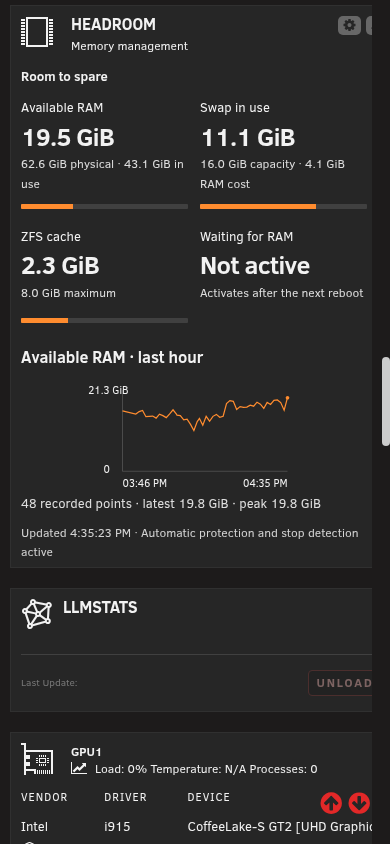
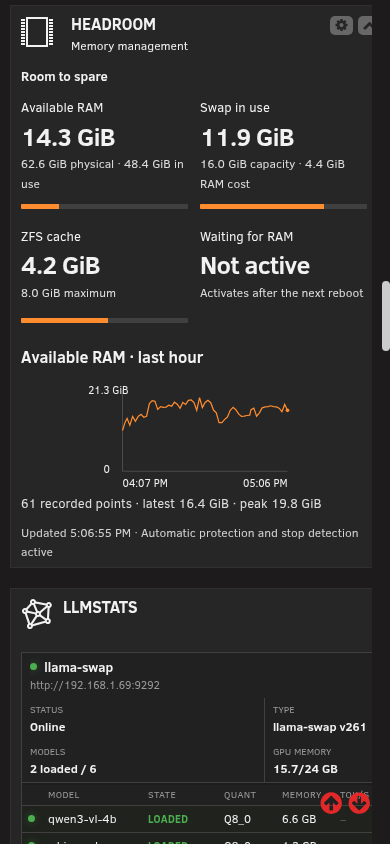
Record precise release verification and final phone view

diff --git a/docs/DESIGN.md b/docs/DESIGN.md
@@ -57,7 +57,7 @@ Below: compressed swap, disk swap (strong ZFS warning + eligible target selector
 ## Migration and rollback
 
 1. Back up original plugin .plg, settings, installed source, hooks, and every changed /boot file beneath `/boot/config/plugins/dockerMan/backup-2026-10-02/headroom-<timestamp>/`. Record original runtime defaults for later uninstall.
-2. Re-read old settings at cutover (Main is changing 8G to 16G). Strictly map old levels; preserve zram algorithm/size/percent/priorities/swappiness. Keep complete original settings in migration metadata. Deliberately replace global oom.group=yes with per-container false. Explain this exception.
+2. Re-read the latest old settings at cutover. Strictly map old levels; preserve zram algorithm/size/percent/priorities/swappiness. Save the complete original settings in the migration backup and record that location in metadata. Deliberately replace global oom.group=yes with per-container false. Explain this exception.
 3. Stage Headroom; import config and adopt existing labelled active device. Apply protections before removing old components. Stop only verified old collector. Remove old marked libvirt hook, old plugin files/registration/cron without running its dangerous remover (it swapoffs live zram and clears all scores). Reapply Headroom in the same locked migration. Keep saved old config in backup, not an active plugin folder.
 4. Install own qemu.d hook (do not edit Unraid's VFIO code), cron watchdog and array events. Start daemon and verify settings, same device/size/label/priority, every score/group, Docker new-start and disposable restart, notifications and UI.
 5. Rollback: in a safe low-pressure window with PSI active, remove Headroom through the native plugin manager (never force a refused removal), restore the migration backup's saved-settings/settings.ini to the original plugin directory, then reinstall `https://raw.githubusercontent.com/johnpwhite/unraid-plg-zram/main/unraid-zram-card.plg`. The old plugin recreates its compressed swap and reapplies the original protection settings. This restores its old whole-app behavior and lack of Docker-event reapplication. Until safe evacuation is possible, leave Headroom installed rather than disabling its watchdog.
@@ -66,7 +66,7 @@ Normal uninstall safely evacuates owned swap only after checks; refusal aborts r
 
 ## Verification
 
-Unit tests: invalid config/size/levels rejected, complete migration mapping including 16G and whole-app exception, limits token rewrite preserving other ExtraParams, OOM global vs cgroup parsing, pressure duration/recovery/cooldown, evacuation boundaries and ZFS rejection. Shellcheck and php -l in CI; release workflow dispatch builds package, regenerates .plg and publishes immutable release assets. Real smoke on Unraid: read-only status, safe live protection, disposable Docker start/restart/recreate, test notification, actual PHP endpoints, native desktop/phone screenshots if authenticated. No deliberate OOM, restart of existing cameras/media/voice/Cody, live destructive swap resize or real early-stop experiment.
+The 15 regression tests cover invalid config/size/levels, migration and the whole-app exception, foreign cgroup rejection, limit-template preservation, ARC option preservation, global/container OOM association, bounded OOM contexts, pressure duration/recovery, swap-only warnings, protected early-action exclusions, PSI boot-line preservation and evacuation boundaries. ShellCheck, PHP/JS syntax and generated-installer checks run in CI. Real Unraid smoke exercised adoption, every live process score, Docker start/restart/recreate, native notifications, live limit set/clear with template persistence and no restart, ARC persistence, safe SIGTERM override, and authenticated desktop/phone UI. There was no deliberate OOM, production app restart, destructive live swap resize, real pressure-induced early stop or server reboot. ZFS targets were inspected and rejected as available options; no disk swap was created because this server has no eligible spare target.
 
 ## Findings from the real Unraid smoke
 
